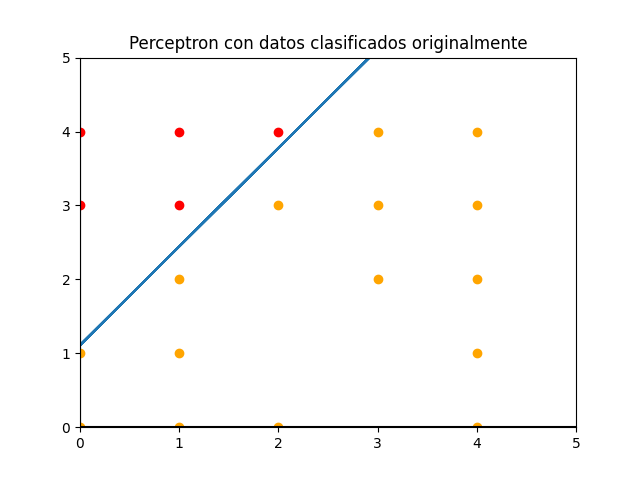
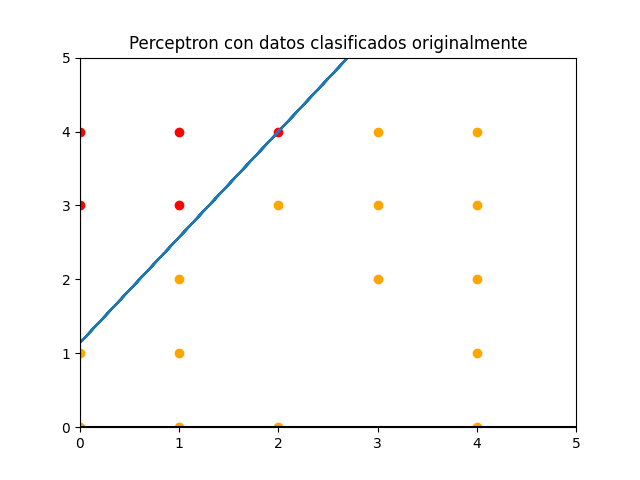
actualizado

Changed region(s): [[0.2812, 0.125, 0.5938, 0.5], [0.1875, 0.5, 0.2812, 0.625], [0.125, 0.625, 0.1875, 0.7188]]

diff --git a/main.py b/main.py
@@ -245,7 +245,7 @@ Xtraining_set, ytraining_set = split_class(training_set)
 
 
 # Entrenando con kernel lineal
-clflinear = svm.SVC(kernel="linear")
+clflinear = svm.SVC(kernel="linear", C=100)
 # print("Ytest",ytraining_set)
 clflinear.fit(Xtraining_set, ytraining_set)
 
@@ -253,13 +253,13 @@ result_linear_test = clflinear.predict(Xtest)
 # print("LINEAR TEST", result_linear_test)
 # Entrenando con kernel polinomial
 
-clfpoly = svm.SVC(kernel="poly")
+clfpoly = svm.SVC(kernel="poly", C=1000)
 clfpoly.fit(Xtraining_set, ytraining_set)
 result_polinomial_test = clfpoly.predict(Xtest)
 # print("POLINOMIAL TEST", result_polinomial_test)
 
 # Entrenando con kernel rdf
-clfrbf = svm.SVC(kernel="rbf")
+clfrbf = svm.SVC(kernel="rbf", C=100)
 clfrbf.fit(Xtraining_set, ytraining_set)
 result_rbf_test = clfrbf.predict(Xtest)
 # print("RBF TEST", result_rbf_test)
@@ -286,6 +286,6 @@ def make_img(image, clf):
 # make_img(cow_1,clfrbf)
 cow_test = cv.imread("cow-test-2.jpg")
 #print("COW", cow_test)
-# make_img(cow_test,clflinear)
+make_img(cow_test,clflinear)
 # make_img(cow_test,clfpoly)
 # make_img(cow_test,clfrbf)

diff --git a/perceptron.py b/perceptron.py
@@ -1,7 +1,7 @@
 import random
 import numpy as np
 class Perceptron():
-    def __init__(self, eta=0.1, itr=20000):
+    def __init__(self, eta=0.1, itr=30000):
         self.eta = eta
         self.itr = itr
         
@@ -20,7 +20,6 @@ class Perceptron():
                 X_random =X[random_index]
                 Y_random =y[random_index]
                 o = self.calculate_o(X_random, w)
-                
                 # Calculamos delta w -> (etha * error) * [w0, w1, w2]
                 etha_error = self.eta * (Y_random-o)
                 _w = [el * etha_error for i,el in enumerate(X_random)]
